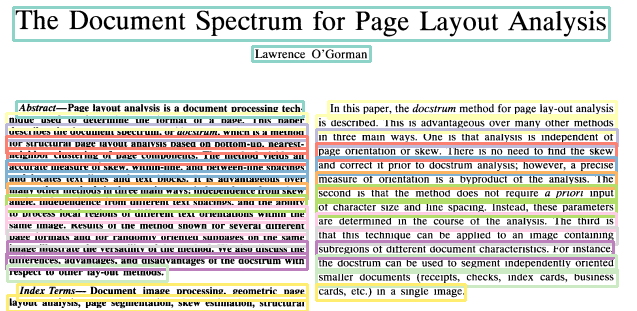
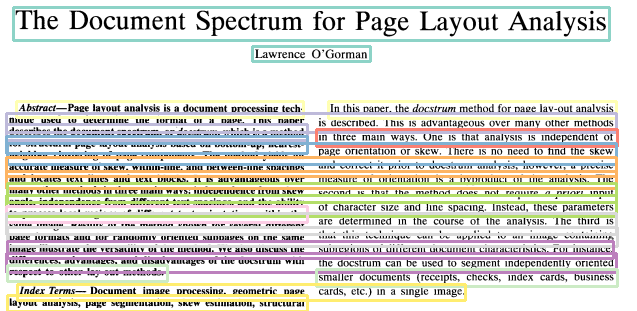
small change

Changed region(s): [[0.0, 0.3183, 0.9843, 0.9839]]

diff --git a/draft_v5.2_lines_automatic.py b/draft_v5.2_lines_automatic.py
@@ -104,7 +104,7 @@ class Docstrum:
         for i in range(1, num_labels):
             area = stats[i, cv2.CC_STAT_AREA]
             
-            # Filter out components that are too small or too large
+            # Filter out components that are too large
             if not big_component_threshold == -1 and area > big_component_threshold:
                 continue
                 
@@ -951,6 +951,102 @@ def log_processing_details(filename: str, components: list, text_lines: list, bl
         f.write(log_entry)
 
 
+# def process_and_save_visualization(image: np.ndarray, output_dir: str, filename: str, 
+#                                  docstrum: Docstrum, spacing_factor: float, 
+#                                  horizontal_distance_threshold: float,
+#                                  vertical_distance_threshold: float,
+#                                  small_component_threshold: int,
+#                                  big_component_threshold: int,
+#                                  just_lines: bool,
+#                                  log_file: str):
+#     """
+#     Process an image and save all visualizations including intermediate steps
+#     """
+#     # Create output directory if it doesn't exist
+#     os.makedirs(output_dir, exist_ok=True)
+    
+#     intermediate_dir = os.path.join(output_dir, f"{filename}_intermediate_steps")
+#     os.makedirs(intermediate_dir, exist_ok=True)
+
+#     # Process image and save intermediate visualizations
+#     binary = docstrum.preprocess(image, small_component_threshold=small_component_threshold)
+#     visualize_preprocessing(image, binary, output_dir, filename)
+    
+#     components = docstrum.find_connected_components(binary, big_component_threshold)
+#     visualize_components(image, components, output_dir, filename)
+    
+#     neighbors_info = docstrum.find_nearest_neighbors(components)
+#     visualize_neighbors(image, components, neighbors_info, output_dir, filename)
+    
+#     orientation = docstrum.estimate_orientation(neighbors_info)
+#     visualize_orientation_histogram(neighbors_info, orientation, output_dir, filename)
+    
+#     text_lines = docstrum.find_text_lines(components, neighbors_info, orientation, spacing_factor=spacing_factor)
+#     visualize_text_lines(image, components, text_lines, output_dir, filename)
+    
+#     initial_blocks = docstrum.find_blocks(components, text_lines)
+#     visualize_initial_blocks(image, components, initial_blocks, output_dir, filename)
+
+#     if vertical_distance_threshold == -1:
+#         vertical_distance_threshold = calculate_vertical_threshold(text_lines, components)
+#         print(f"Automatically calculated vertical threshold: {vertical_distance_threshold:.2f}")
+
+#     merged_blocks = docstrum.merge_overlapping_blocks(
+#         components, initial_blocks, 
+#         horizontal_distance_threshold=horizontal_distance_threshold,
+#         vertical_distance_threshold=vertical_distance_threshold,
+#         just_lines=just_lines
+#     )
+    
+#     # Create final visualization
+#     vis_image = cv2.cvtColor(image.copy(), cv2.COLOR_GRAY2RGB)
+#     colors = plt.cm.Set3(np.linspace(0, 1, len(merged_blocks)))
+#     colors = (colors[:, :3] * 255).astype(int)
+    
+#     for block_idx, block in enumerate(merged_blocks):
+#         block_components = [comp_idx for line in block for comp_idx in line]
+#         if not block_components:
+#             continue
+        
+#         min_x = min(components[idx].bbox[0] for idx in block_components)
+#         min_y = min(components[idx].bbox[1] for idx in block_components)
+#         max_x = max(components[idx].bbox[0] + components[idx].bbox[2] for idx in block_components)
+#         max_y = max(components[idx].bbox[1] + components[idx].bbox[3] for idx in block_components)
+        
+#         color = colors[block_idx % len(colors)].tolist()
+#         padding = 3
+#         cv2.rectangle(vis_image, 
+#                      (min_x - padding, min_y - padding), 
+#                      (max_x + padding, max_y + padding), 
+#                      color, 2)
+    
+#     # Save the final visualization
+#     output_path = os.path.join(output_dir, f'{filename}_final_blocks.png')
+#     cv2.imwrite(output_path, cv2.cvtColor(vis_image, cv2.COLOR_RGB2BGR))
+    
+#     # Log processing details
+#     log_processing_details(filename, components, text_lines, merged_blocks, 
+#                          orientation, just_lines, output_dir, log_file)
+    
+#     # Print to console as well
+#     print(f"Processed {filename}:")
+#     print(f"- Found {len(components)} components")
+#     print(f"- Grouped into {len(text_lines)} text lines")
+#     print(f"- Detected {len(merged_blocks)} text blocks")
+#     print(f"- Estimated orientation: {orientation:.1f} degrees")
+#     print(f"- Merge mode: {'line-only' if just_lines else 'lines and vertical'}")
+#     print(f"- Saved visualizations to {output_dir}")
+#     print("  - Preprocessing visualization")
+#     print("  - Connected components visualization")
+#     print("  - K-nearest neighbors visualization")
+#     print("  - Orientation histogram")
+#     print("  - Text lines visualization")
+#     print("  - Initial blocks visualization")
+#     print("  - Final blocks visualization")
+    
+#     return components, text_lines, orientation, merged_blocks
+
+
 def process_and_save_visualization(image: np.ndarray, output_dir: str, filename: str, 
                                  docstrum: Docstrum, spacing_factor: float, 
                                  horizontal_distance_threshold: float,
@@ -962,30 +1058,31 @@ def process_and_save_visualization(image: np.ndarray, output_dir: str, filename:
     """
     Process an image and save all visualizations including intermediate steps
     """
-    # Create output directory if it doesn't exist
+    # Create main output directory if it doesn't exist
     os.makedirs(output_dir, exist_ok=True)
     
+    # Create intermediate steps directory for this specific image
     intermediate_dir = os.path.join(output_dir, f"{filename}_intermediate_steps")
     os.makedirs(intermediate_dir, exist_ok=True)
-
+    
     # Process image and save intermediate visualizations
     binary = docstrum.preprocess(image, small_component_threshold=small_component_threshold)
-    visualize_preprocessing(image, binary, output_dir, filename)
+    visualize_preprocessing(image, binary, intermediate_dir, "01_preprocessing")
     
     components = docstrum.find_connected_components(binary, big_component_threshold)
-    visualize_components(image, components, output_dir, filename)
+    visualize_components(image, components, intermediate_dir, "02_components")
     
     neighbors_info = docstrum.find_nearest_neighbors(components)
-    visualize_neighbors(image, components, neighbors_info, output_dir, filename)
+    visualize_neighbors(image, components, neighbors_info, intermediate_dir, "03_neighbors")
     
     orientation = docstrum.estimate_orientation(neighbors_info)
-    visualize_orientation_histogram(neighbors_info, orientation, output_dir, filename)
+    visualize_orientation_histogram(neighbors_info, orientation, intermediate_dir, "04_orientation")
     
     text_lines = docstrum.find_text_lines(components, neighbors_info, orientation, spacing_factor=spacing_factor)
-    visualize_text_lines(image, components, text_lines, output_dir, filename)
+    visualize_text_lines(image, components, text_lines, intermediate_dir, "05_text_lines")
     
     initial_blocks = docstrum.find_blocks(components, text_lines)
-    visualize_initial_blocks(image, components, initial_blocks, output_dir, filename)
+    visualize_initial_blocks(image, components, initial_blocks, intermediate_dir, "06_initial_blocks")
 
     if vertical_distance_threshold == -1:
         vertical_distance_threshold = calculate_vertical_threshold(text_lines, components)
@@ -1020,31 +1117,38 @@ def process_and_save_visualization(image: np.ndarray, output_dir: str, filename:
                      (max_x + padding, max_y + padding), 
                      color, 2)
     
-    # Save the final visualization
-    output_path = os.path.join(output_dir, f'{filename}_final_blocks.png')
+    # Save the final visualization in the intermediate steps directory
+    output_path = os.path.join(intermediate_dir, "07_final_blocks.png")
     cv2.imwrite(output_path, cv2.cvtColor(vis_image, cv2.COLOR_RGB2BGR))
+    
+    # Also save a copy of the final visualization in the main output directory
+    final_output_path = os.path.join(output_dir, f'{filename}_final_blocks.png')
+    cv2.imwrite(final_output_path, cv2.cvtColor(vis_image, cv2.COLOR_RGB2BGR))
     
     # Log processing details
     log_processing_details(filename, components, text_lines, merged_blocks, 
                          orientation, just_lines, output_dir, log_file)
     
     # Print to console as well
-    print(f"Processed {filename}:")
+    print(f"\nProcessed {filename}:")
     print(f"- Found {len(components)} components")
     print(f"- Grouped into {len(text_lines)} text lines")
     print(f"- Detected {len(merged_blocks)} text blocks")
     print(f"- Estimated orientation: {orientation:.1f} degrees")
     print(f"- Merge mode: {'line-only' if just_lines else 'lines and vertical'}")
-    print(f"- Saved visualizations to {output_dir}")
-    print("  - Preprocessing visualization")
-    print("  - Connected components visualization")
-    print("  - K-nearest neighbors visualization")
-    print("  - Orientation histogram")
-    print("  - Text lines visualization")
-    print("  - Initial blocks visualization")
-    print("  - Final blocks visualization")
+    print(f"\nSaved visualizations:")
+    print(f"- Final result: {output_dir}/{filename}_final_blocks.png")
+    print(f"- Intermediate steps: {intermediate_dir}/")
+    print("  1. Preprocessing")
+    print("  2. Connected components")
+    print("  3. K-nearest neighbors")
+    print("  4. Orientation histogram")
+    print("  5. Text lines")
+    print("  6. Initial blocks")
+    print("  7. Final blocks")
     
     return components, text_lines, orientation, merged_blocks
+
 
 
 def main():
